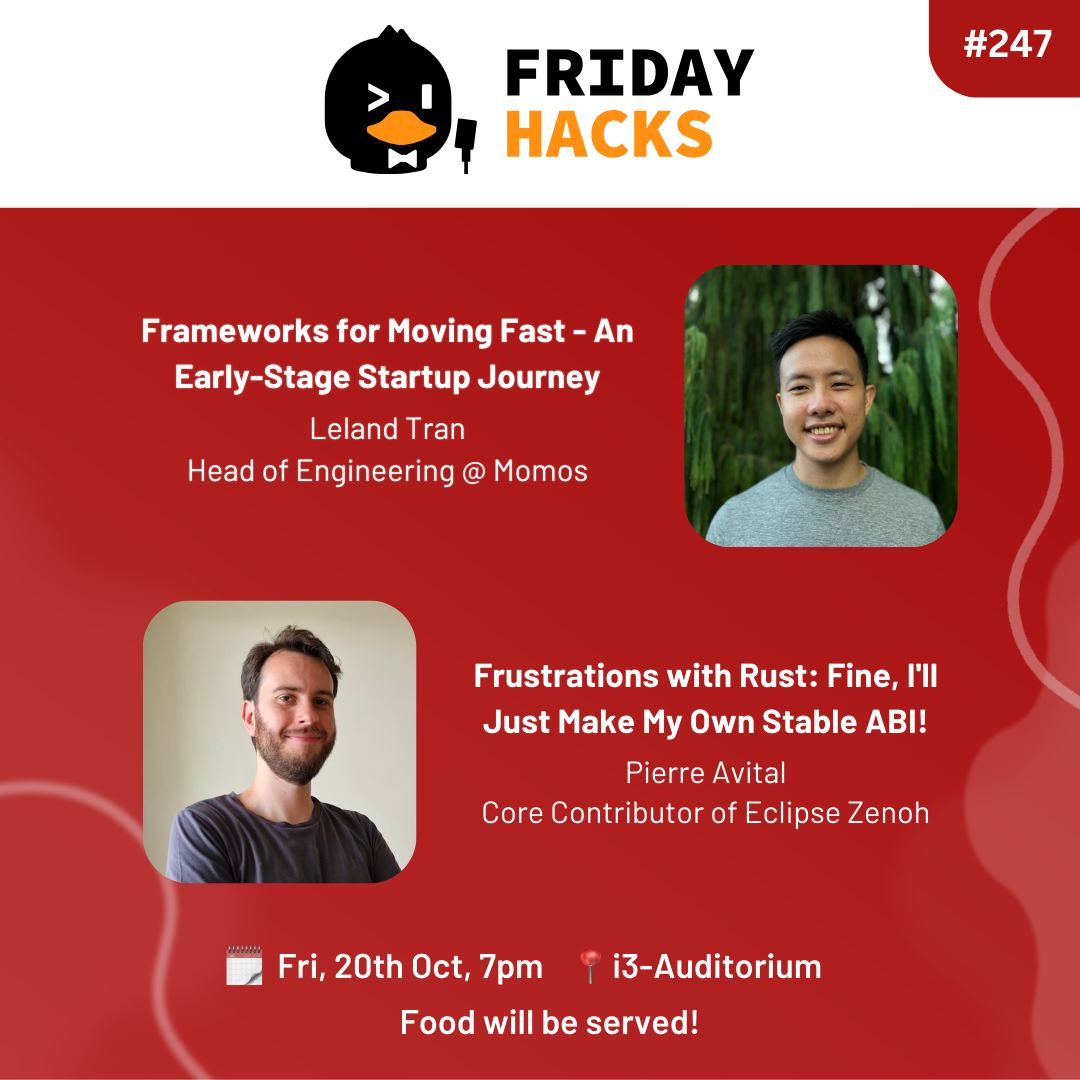
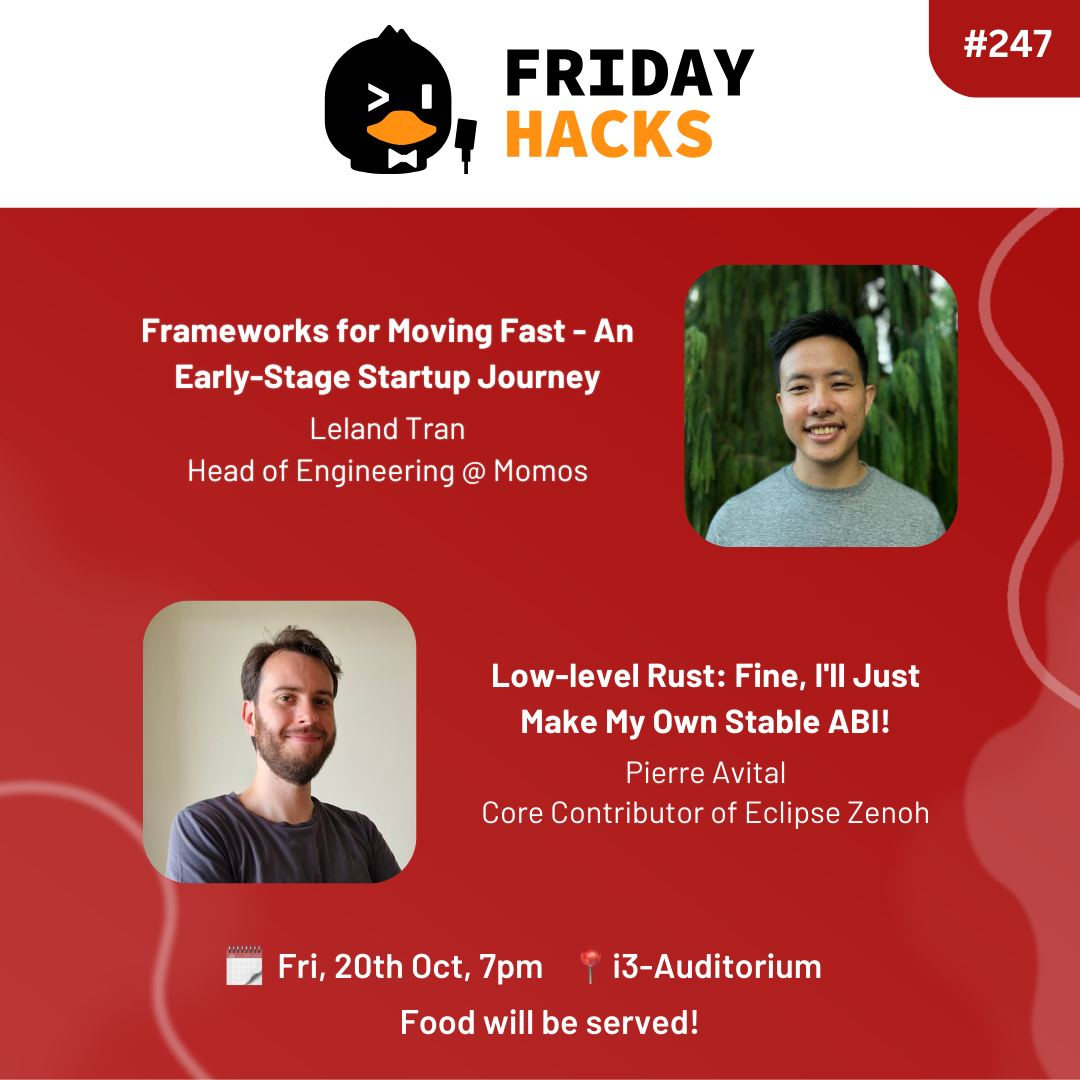
Fh 247 (#608)
* Change FH 247 title

Changed region(s): [[0.4278, 0.6111, 0.8861, 0.7028]]

diff --git a/content/post/2023-10-20-friday-hacks-247.md b/content/post/2023-10-20-friday-hacks-247.md
@@ -25,7 +25,7 @@ Founded in Singapore, Momos offers an AI platform for restaurants globally to ru
 
 Leland is the Head of Engineering, Momos and is featured on Forbes' "30 Under 30 - Asia - Enterprise Technology."
 
-## 2) Frustrations with Rust: Fine, I'll Just Make My Own Stable ABI, with Compact sum-types and Stable rustc!
+## 2) Low-level Rust: Fine, I'll Just Make My Own Stable ABI, with Compact sum-types and Stable rustc!
 
 _This talk was initially presented at RustConf 23!_
 
